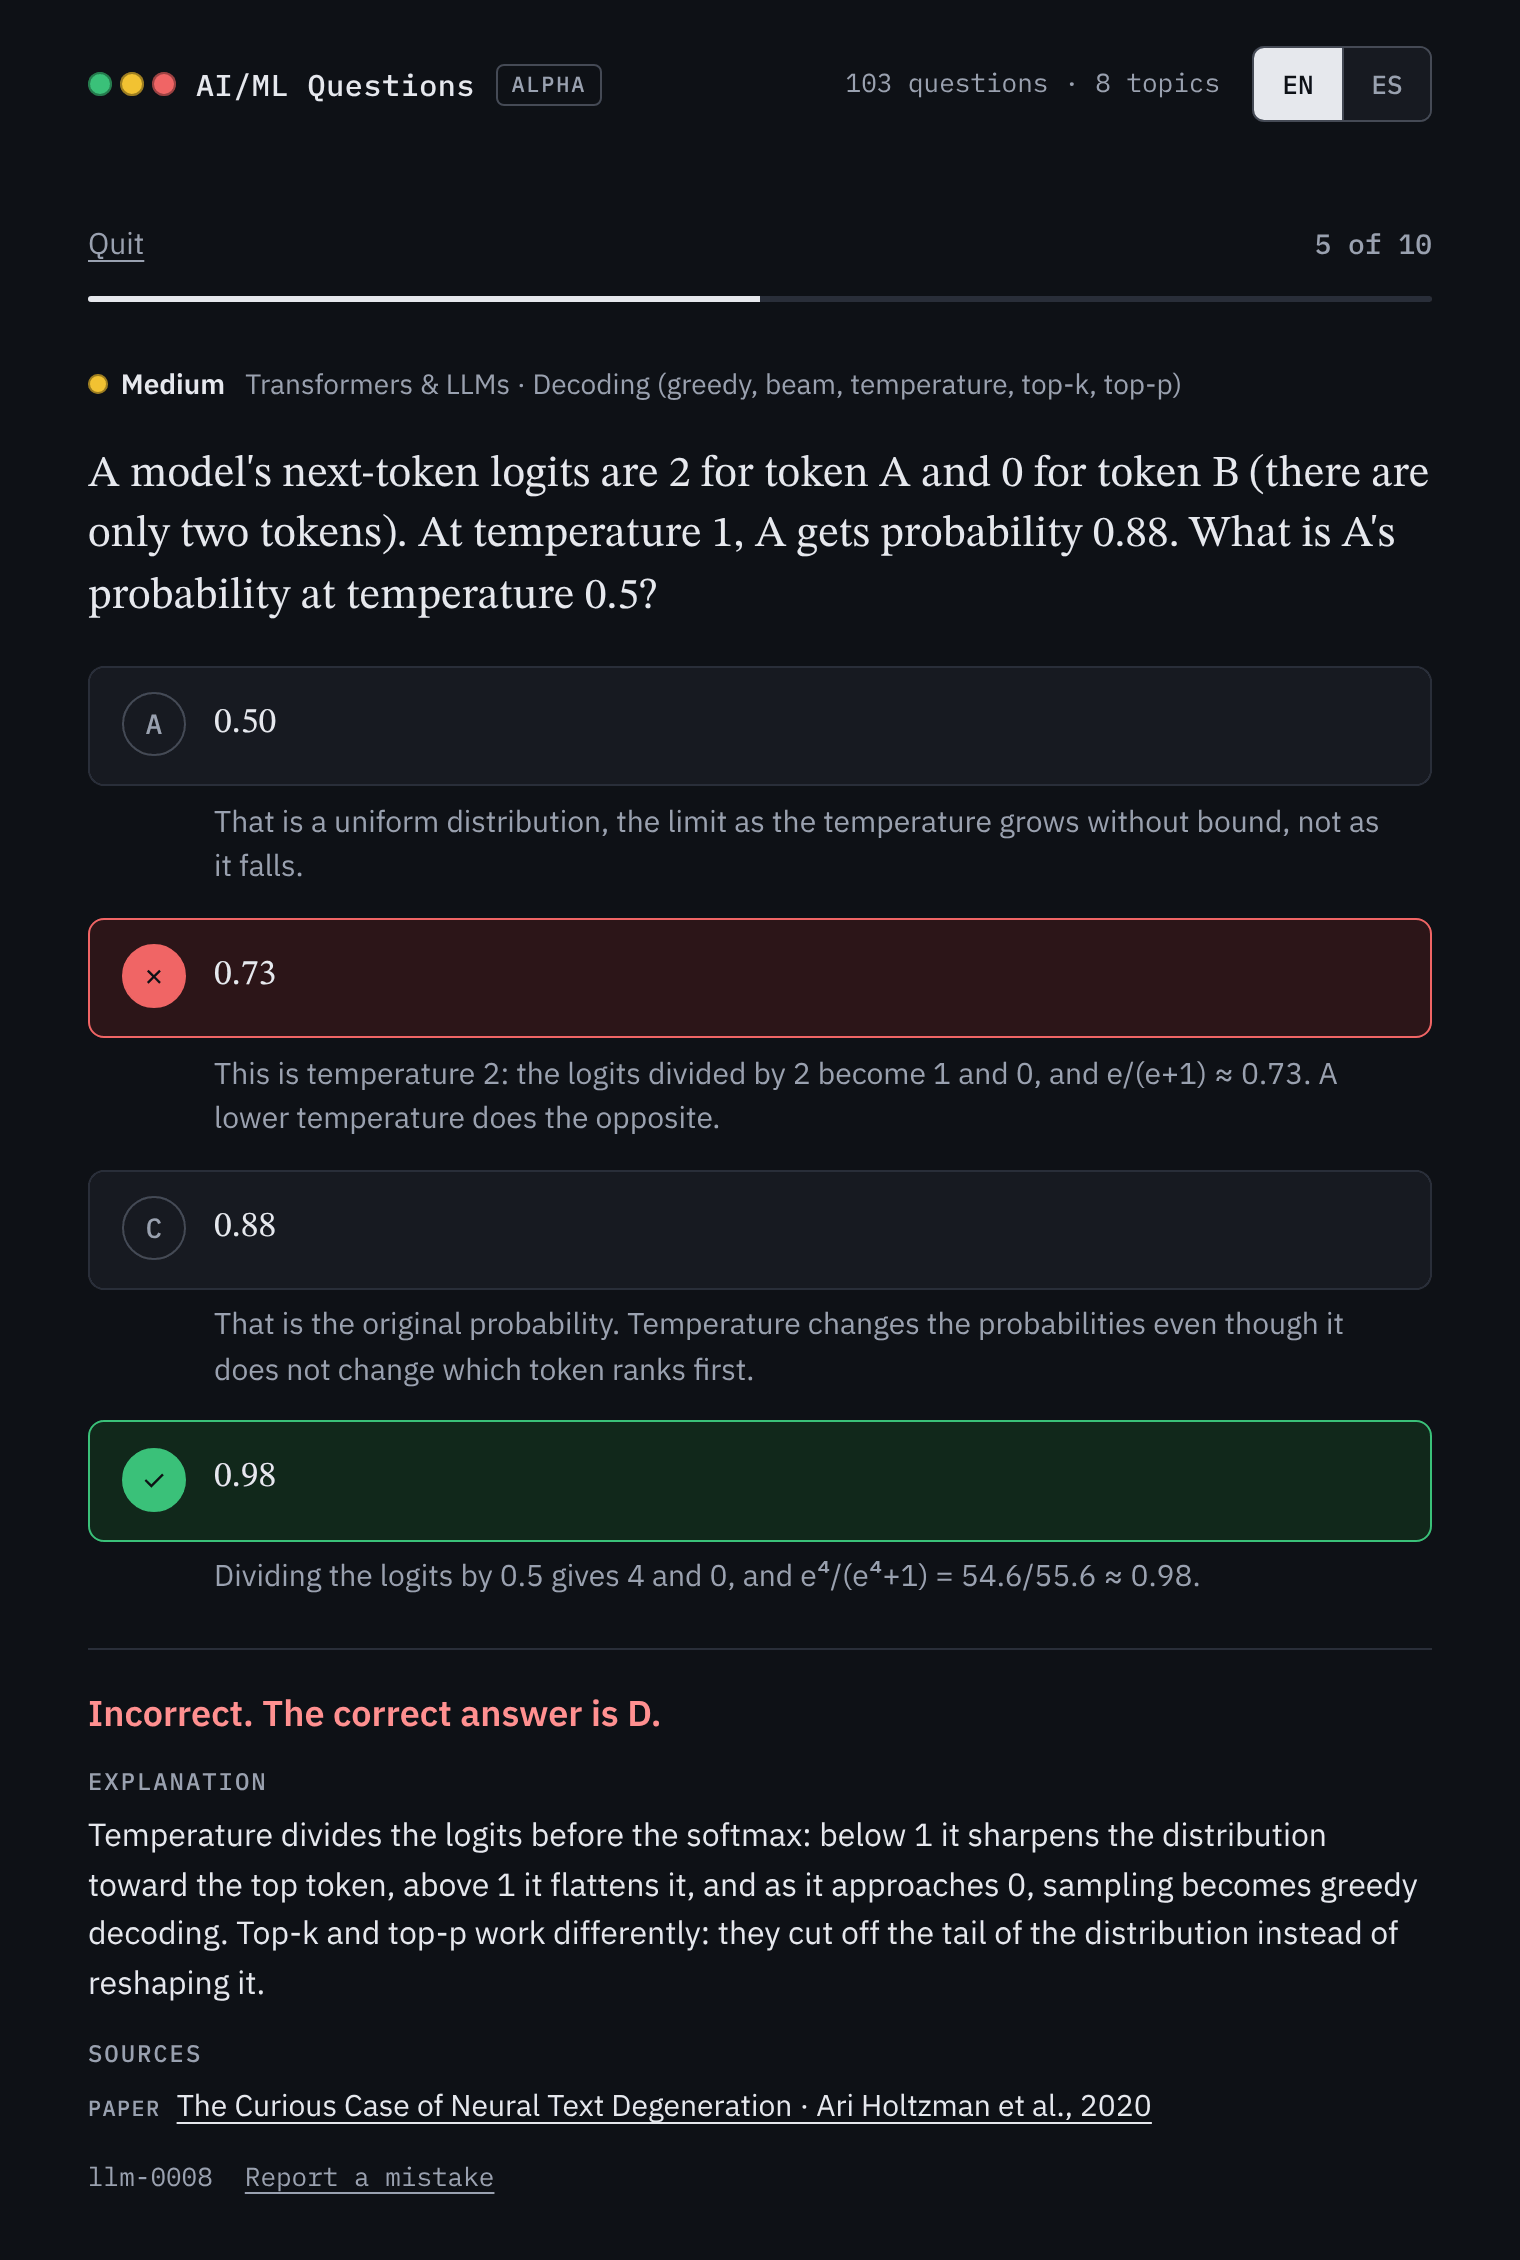
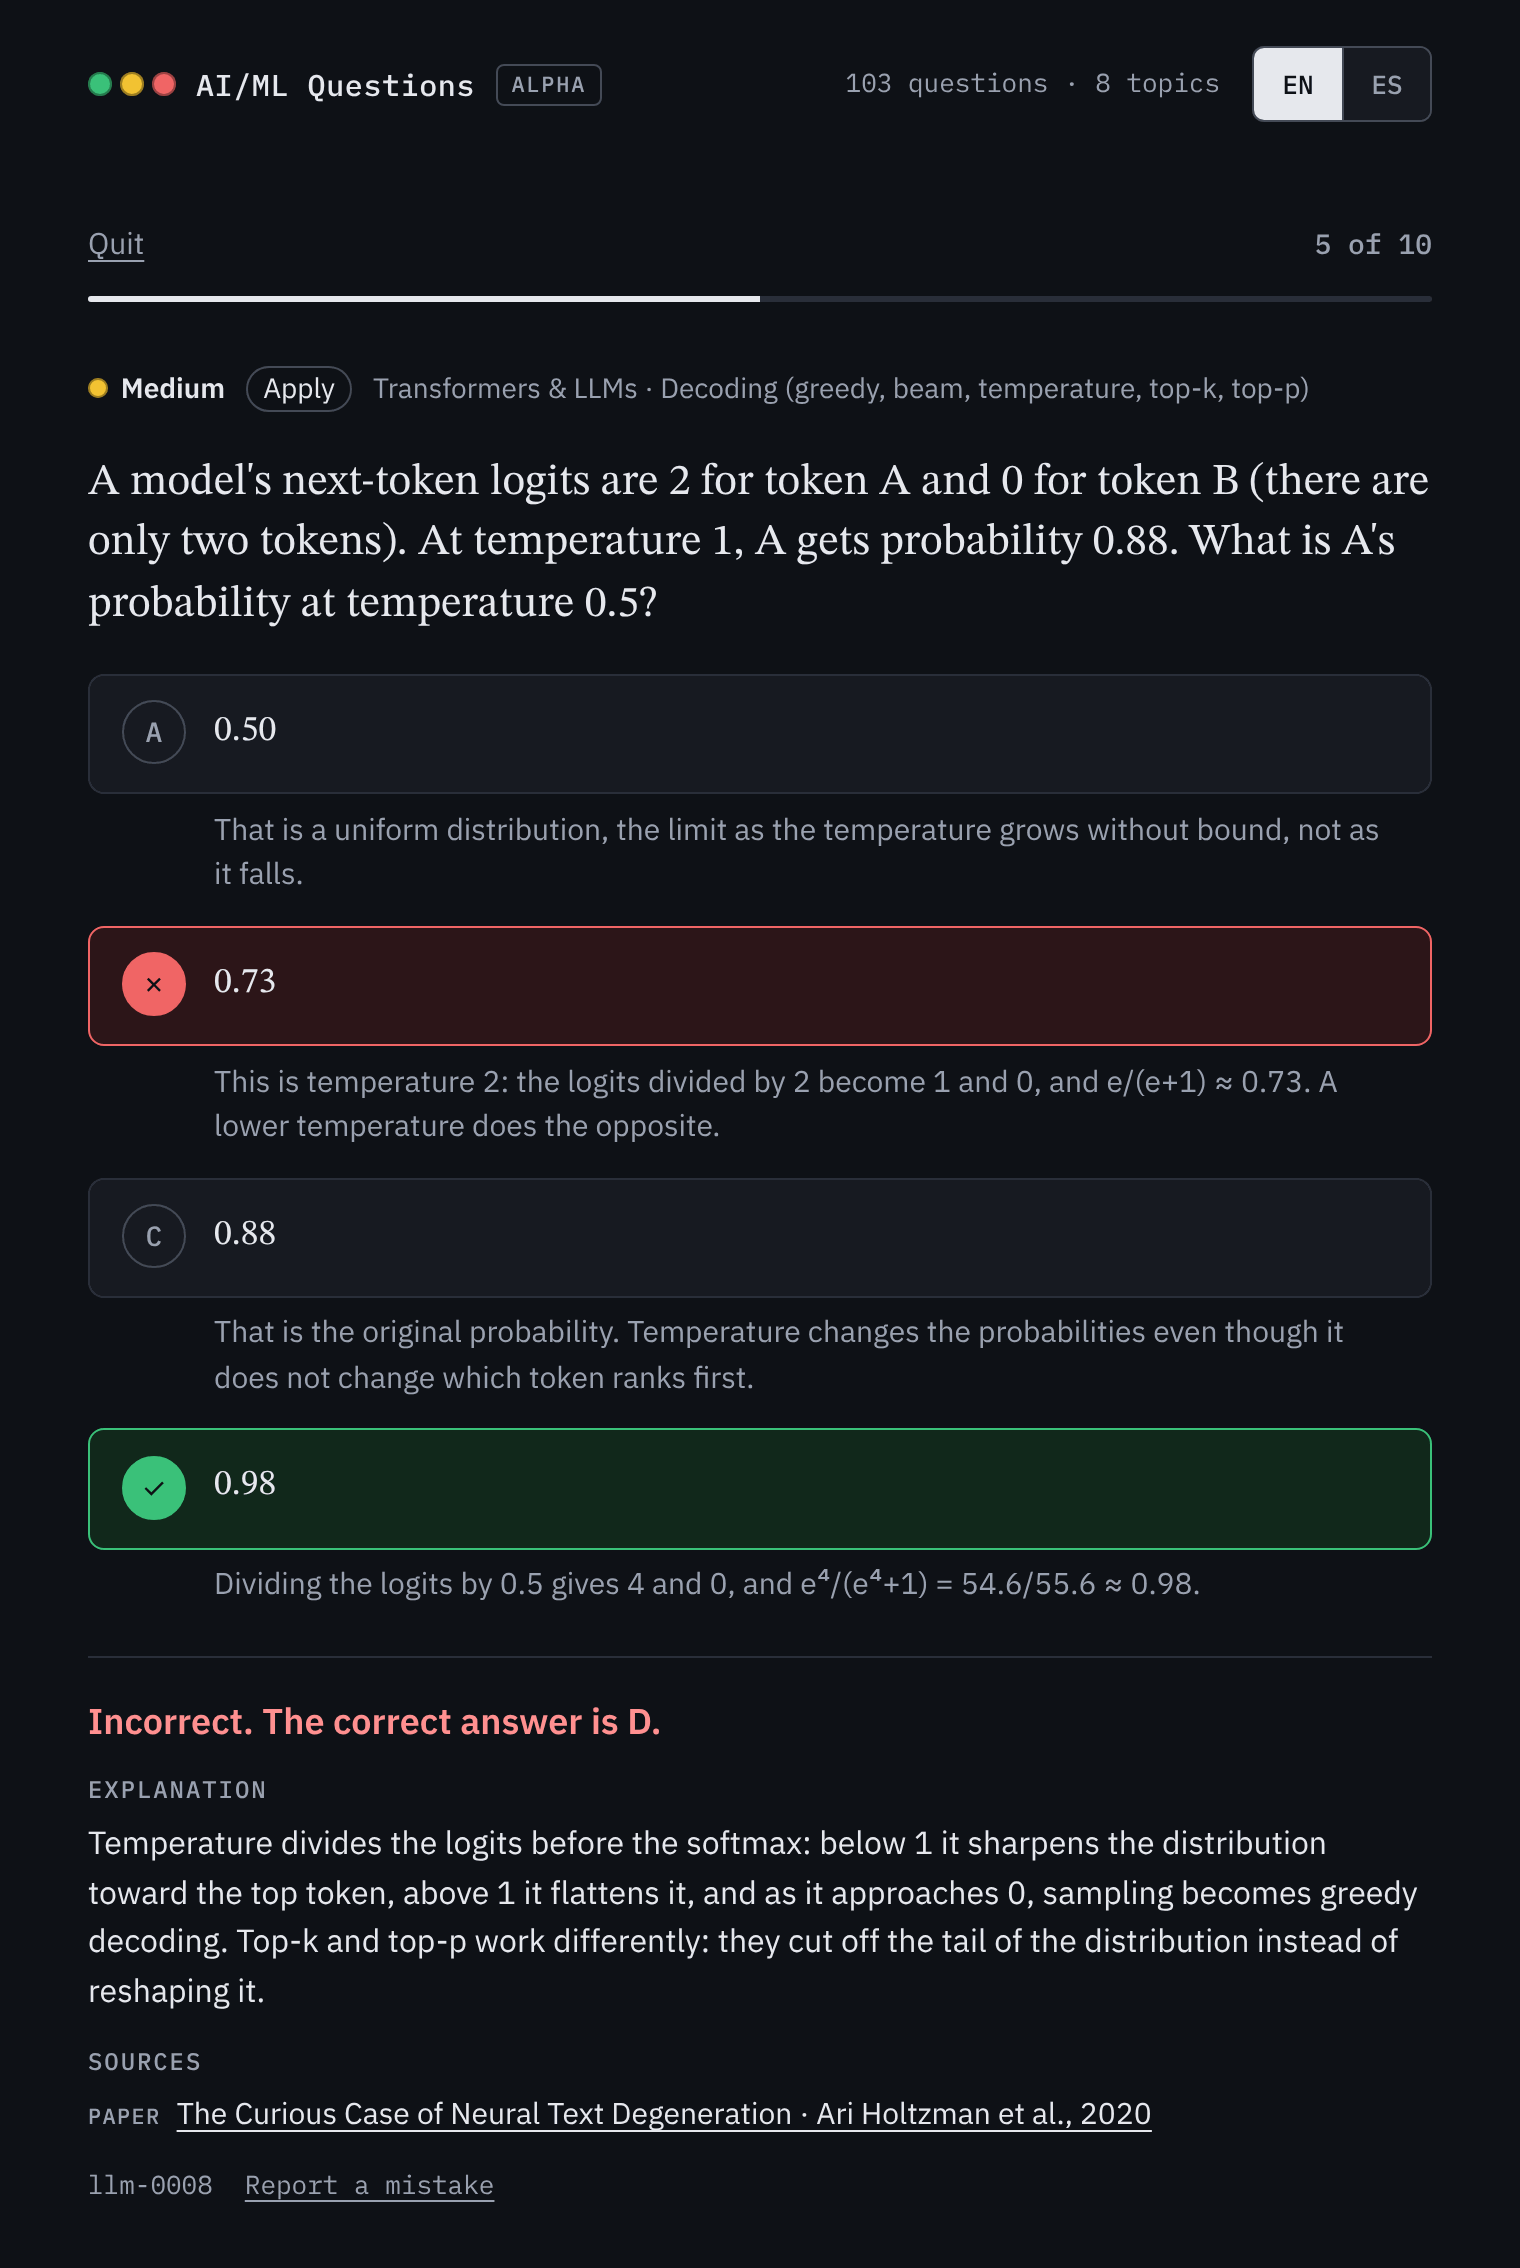
Show the type of reasoning apart from the difficulty
Each question now has an outlined tag with its Bloom level, shown as the
type of reasoning it asks for (Remember to Evaluate; Recordar to Evaluar),
next to the difficulty dot and in the review of answers. The difficulty
stays easy, medium or hard: Bloom says what kind of thinking a question
asks for, and the level how many people get it right.

docs/difficulty.md explains why the two are kept apart and why the site
shows names instead of numbers. The README screenshots show the new tag.

diff --git a/site/app.js b/site/app.js
@@ -54,6 +54,10 @@ const STRINGS = {
     kofiFoot: "☕ Support on Ko-fi",
     githubFoot: "Open source on GitHub",
     level: { easy: "Easy", medium: "Medium", hard: "Hard" },
+    // The type of reasoning (Bloom's revised taxonomy), shown apart from the difficulty.
+    bloom: { remember: "Remember", understand: "Understand", apply: "Apply", analyze: "Analyze", evaluate: "Evaluate" },
+    bloomLabel: "Reasoning",
+    bloomTitle: "Type of reasoning the question asks for, from Bloom's taxonomy",
     kind: { paper: "Paper", book: "Book", docs: "Docs", post: "Post", experiment: "Experiment", article: "Article" },
     bankSize: (n, t) => `${n} ${n === 1 ? "question" : "questions"} · ${t} ${t === 1 ? "topic" : "topics"}`,
     available: (n) => (n ? `${n} available with these filters` : "No questions match these filters"),
@@ -130,6 +134,9 @@ const STRINGS = {
     kofiFoot: "☕ Apoyar en Ko-fi",
     githubFoot: "Código abierto en GitHub",
     level: { easy: "Fácil", medium: "Medio", hard: "Difícil" },
+    bloom: { remember: "Recordar", understand: "Comprender", apply: "Aplicar", analyze: "Analizar", evaluate: "Evaluar" },
+    bloomLabel: "Razonamiento",
+    bloomTitle: "Tipo de razonamiento que pide la pregunta, según la taxonomía de Bloom",
     kind: { paper: "Paper", book: "Libro", docs: "Docs", post: "Post", experiment: "Experimento", article: "Artículo" },
     bankSize: (n, t) => `${n} ${n === 1 ? "pregunta" : "preguntas"} · ${t} ${t === 1 ? "contenido" : "contenidos"}`,
     available: (n) =>
@@ -458,6 +465,15 @@ function reportLink(q) {
   return `<a href="${esc(url)}" target="_blank" rel="noopener">${T.report}</a>`;
 }
 
+/* Difficulty and type of reasoning are shown apart: Bloom says what kind of thinking a question
+   asks for, the level how many people get it right (docs/difficulty.md). */
+const levelTag = (q, withTitle = false) =>
+  `<span class="level-tag"${withTitle ? ` title="${T.levelTitle}"` : ""}><span class="dot ${q.level}" aria-hidden="true"></span><span class="visually-hidden">${T.difficulty}: </span>${T.level[q.level]}</span>`;
+const bloomTag = (q, withTitle = false) =>
+  T.bloom[q.bloom]
+    ? `<span class="bloom-tag"${withTitle ? ` title="${T.bloomTitle}"` : ""}><span class="visually-hidden">${T.bloomLabel}: </span>${T.bloom[q.bloom]}</span>`
+    : "";
+
 function verdictText(q, item) {
   if (q.answer.includes(item.choice)) return T.correct;
   return T.wrong(LETTERS[item.order.indexOf(q.answer[0])]);
@@ -511,7 +527,7 @@ function renderQuestion(focusPrompt) {
   const subtopic = bank.subtopicName.get(`${q.area}/${q.subtopic}`);
   $("#question").innerHTML = `
     <div class="q-meta">
-      <span class="level-tag" title="${T.levelTitle}"><span class="dot ${q.level}" aria-hidden="true"></span>${T.level[q.level]}</span>
+      ${levelTag(q, true)} ${bloomTag(q, true)}
       <span class="q-topic">${esc(tx(topic?.name))} · ${esc(tx(subtopic))}</span>
     </div>
     <h2 class="q-prompt" id="q-prompt" tabindex="-1">${rich(tx(q.prompt))}</h2>
@@ -669,7 +685,7 @@ function reviewItem({ item, q, ok }) {
         <p><b>${T.rightAnswer}:</b> ${letter(right.id)}. ${rich(tx(right.text))}</p>
         <p>${rich(tx(q.explanation))}</p>
         <div class="q-foot">
-          <span class="level-tag"><span class="dot ${q.level}" aria-hidden="true"></span>${T.level[q.level]}</span>
+          ${levelTag(q)} ${bloomTag(q)}
           <span>${q.id}</span>
         </div>
       </div>

diff --git a/site/styles.css b/site/styles.css
@@ -370,6 +370,14 @@ main { flex: 1; min-width: 0; }
   color: var(--muted);
 }
 .level-tag { display: inline-flex; align-items: center; gap: 0.4rem; font-weight: 600; color: var(--ink); }
+/* The type of reasoning (Bloom), outlined so it does not read as part of the difficulty. */
+.bloom-tag {
+  padding: 0.0625rem 0.5rem;
+  border: 1px solid var(--rule-strong);
+  border-radius: 999px;
+  color: var(--ink);
+  white-space: nowrap;
+}
 .q-topic { min-width: 0; }
 
 .q-prompt {

diff --git a/site/sw.js b/site/sw.js
@@ -1,6 +1,6 @@
 /* Service worker: stores the site and the questions so it works offline.
    scripts/build_site.py rewrites VERSION whenever any file changes. */
-const VERSION = "278126992354";
+const VERSION = "5d891644cb7d";
 const CACHE = `ai-ml-questions-${VERSION}`;
 
 self.addEventListener("install", (event) => {

diff --git a/docs/site.md b/docs/site.md
@@ -10,6 +10,7 @@
 - **Order:** from easiest to hardest, by level and then by the rubric score, so a quiz warms up instead of opening with a hard question. In the first answers recorded, half of the people who missed their first question left right there. Retrying the mistakes follows the same order.
 - **Shuffled options** in each quiz, except with `keep_order`; that is why the answer is stored by id and not by position. In 500,000 test shuffles, the correct option landed in each position between 24.9% and 25.1% of the time.
 - **Visible difficulty:** each question shows a green, yellow or red dot with the level written next to it, so it does not rely on color alone.
+- **Type of reasoning:** next to the difficulty, an outlined tag shows what kind of thinking the question asks for, from Bloom's taxonomy: Remember, Understand, Apply, Analyze or Evaluate. It is kept apart from the difficulty on purpose ([Difficulty](difficulty.md#difficulty-is-not-the-bloom-level)).
 - **Modes:** study (explanation after each answer) and exam (score and explanations at the end).
 - **Long quizzes:** 200 questions take about 2 to 3 hours, so progress is saved in the browser.
 - **At the end:** score by topic and level, review of mistakes, a result to share and a Ko-fi button.
@@ -32,7 +33,7 @@ To end the alpha, delete the `<span class="badge">` from `site/index.html`.
 ## Screens
 
 1. **Home:** the name, the language switch (EN/ES) and the site's goal. Then difficulty (the three dots), topics, number of questions and mode, with how many questions are available for those filters. If there is an unfinished quiz, it offers to resume it.
-2. **Question:** the dot with the level written next to it, the topic and subtopic, the stem, and the options as answer-sheet bubbles. In study mode, answering marks the correct option and shows each option's rationale, the explanation and the sources. On a computer, keys 1 to 4 (or A to D) choose and Enter moves on. The language can be switched mid-quiz without losing progress.
+2. **Question:** the dot with the level written next to it, the type of reasoning, the topic and subtopic, the stem, and the options as answer-sheet bubbles. In study mode, answering marks the correct option and shows each option's rationale, the explanation and the sources. On a computer, keys 1 to 4 (or A to D) choose and Enter moves on. The language can be switched mid-quiz without losing progress.
 3. **Results:** score, correct answers by difficulty and by topic, the message to share, Ko-fi and the review of mistakes, with the option to retry only the missed questions.
 
 ## Sharing on LinkedIn

diff --git a/README.es.md b/README.es.md
@@ -8,7 +8,7 @@ Preguntas de opción múltiple gratuitas para aprender inteligencia artificial y
 
 <picture>
   <source media="(prefers-color-scheme: dark)" srcset="docs/images/question-es-dark.png">
-  <img src="docs/images/question-es-light.png" width="600" alt="Una pregunta de nivel medio sobre la temperatura de muestreo, respondida en modo estudio. La alternativa elegida, 0,73, aparece marcada como incorrecta y 0,98 como correcta; bajo cada alternativa, una línea explica por qué, y después vienen la explicación y la fuente.">
+  <img src="docs/images/question-es-light.png" width="600" alt="Una pregunta de nivel medio y de tipo Aplicar sobre la temperatura de muestreo, respondida en modo estudio. La alternativa elegida, 0,73, aparece marcada como incorrecta y 0,98 como correcta; bajo cada alternativa, una línea explica por qué, y después vienen la explicación y la fuente.">
 </picture>
 
 - **103 preguntas en inglés y en español**, en 8 contenidos y tres niveles. El modo estudio muestra la explicación después de cada respuesta; el modo examen, el resultado al final.
@@ -34,7 +34,7 @@ Preguntas de opción múltiple gratuitas para aprender inteligencia artificial y
 
 ## Cómo se hacen las preguntas
 
-Cada pregunta declara su nivel en la taxonomía de Bloom y recibe una dificultad estimada con una rúbrica. Un validador revisa el formato y las reglas de redacción, y un segundo modelo revisa los hechos, las fuentes y la traducción antes de que una persona apruebe la pregunta. Cuando una pregunta reúne suficientes respuestas, estas también muestran si distingue a quienes saben más. El detalle está en [`docs/`](docs/README.md), en inglés.
+Cada pregunta declara su nivel en la taxonomía de Bloom, que el sitio muestra como el tipo de razonamiento que pide (de Recordar a Evaluar), y recibe una dificultad estimada con una rúbrica. Un validador revisa el formato y las reglas de redacción, y un segundo modelo revisa los hechos, las fuentes y la traducción antes de que una persona apruebe la pregunta. Cuando una pregunta reúne suficientes respuestas, estas también muestran si distingue a quienes saben más. El detalle está en [`docs/`](docs/README.md), en inglés.
 
 ## Cómo aportar
 

diff --git a/README.md b/README.md
@@ -8,7 +8,7 @@ Free multiple-choice questions for learning artificial intelligence and machine 
 
 <picture>
   <source media="(prefers-color-scheme: dark)" srcset="docs/images/question-en-dark.png">
-  <img src="docs/images/question-en-light.png" width="600" alt="A medium question on sampling temperature, answered in study mode. The chosen option, 0.73, is marked wrong and 0.98 right; under each option a line explains why, followed by the explanation and the source.">
+  <img src="docs/images/question-en-light.png" width="600" alt="A medium question of the Apply type on sampling temperature, answered in study mode. The chosen option, 0.73, is marked wrong and 0.98 right; under each option a line explains why, followed by the explanation and the source.">
 </picture>
 
 - **103 questions in English and Spanish**, in 8 topics and three levels. Study mode shows the explanation after each answer; exam mode, the results at the end.
@@ -34,7 +34,7 @@ Free multiple-choice questions for learning artificial intelligence and machine 
 
 ## How the questions are made
 
-Each question states its level in Bloom's taxonomy and gets an estimated difficulty from a rubric. A validator checks the format and the writing rules, and a second model checks facts, sources and the translation before a person approves the question. Once a question has enough answers, they also show whether it tells apart people who know more. The details are in [`docs/`](docs/README.md).
+Each question states its level in Bloom's taxonomy, which the site shows as the type of reasoning it asks for (from Remember to Evaluate), and gets an estimated difficulty from a rubric. A validator checks the format and the writing rules, and a second model checks facts, sources and the translation before a person approves the question. Once a question has enough answers, they also show whether it tells apart people who know more. The details are in [`docs/`](docs/README.md).
 
 ## Contributing
 

diff --git a/docs/difficulty.md b/docs/difficulty.md
@@ -30,6 +30,14 @@ The sixth level, `create`, does not fit a multiple-choice question and is left o
 
 The current 103 questions break down into `remember` 3, `understand` 45, `apply` 29, `analyze` 16 and `evaluate` 10.
 
+## Difficulty is not the Bloom level
+
+The site shows both on each question: the dot with the level, which is the difficulty, and next to it an outlined tag with the type of reasoning: Remember, Understand, Apply, Analyze or Evaluate (Recordar, Comprender, Aplicar, Analizar or Evaluar in Spanish).
+
+They measure different things. Bloom says what kind of thinking a question asks for; difficulty says how many people get it right. The two are related but not the same: a niche fact (`remember`) can be very hard, and an `evaluate` case with an obvious best option can be easy. That is why Bloom is one of the four parts of the rubric and not the level itself, and why real answers correct the level ([below](#after-the-fact-bayesian-update)).
+
+The revised taxonomy numbers its levels from 1 (`remember`) to 6 (`create`), so `evaluate` is level 5. In Bloom's original taxonomy (1956), evaluation was the sixth level, after synthesis. Mixing the two numberings is a common source of confusion, so the site shows names, not numbers.
+
 ## The difficulty index
 
 Difficulty is expressed with the classical difficulty index: the proportion of people who answer the question correctly, p. Each color corresponds to a band of p:

diff --git a/docs/README.md b/docs/README.md
@@ -65,3 +65,4 @@ Everything in the repository is in English: code, comments, prompts, the schema,
 - The bank grew from 22 to 103 questions, starting with the context window and prompting.
 - The site records each answer anonymously in Cloudflare D1, and `scripts/item_stats.py` computes the difficulty, discrimination and distractor statistics of each question.
 - Length limits for stems and options, more writing rules in the validator, tests for it, and a check on GitHub for every pull request.
+- Each question shows its type of reasoning (Bloom) next to its difficulty, without mixing the two.
